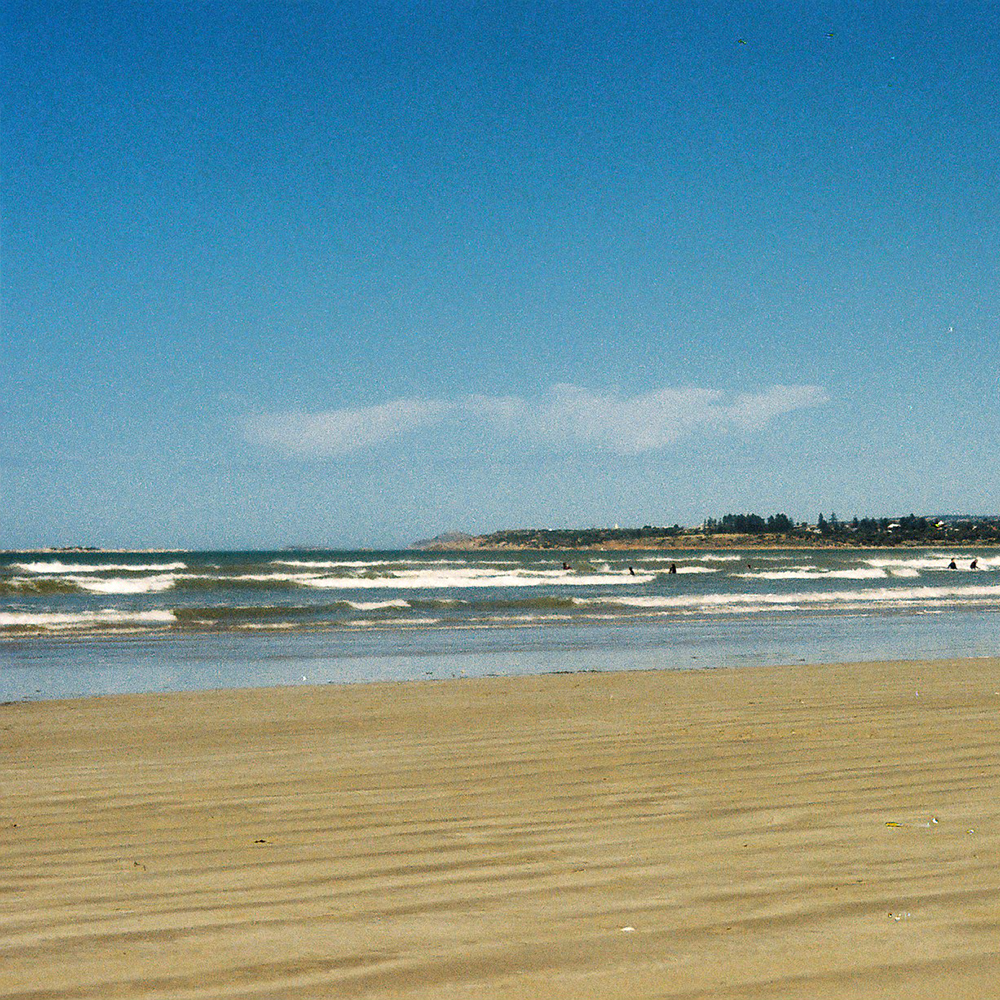
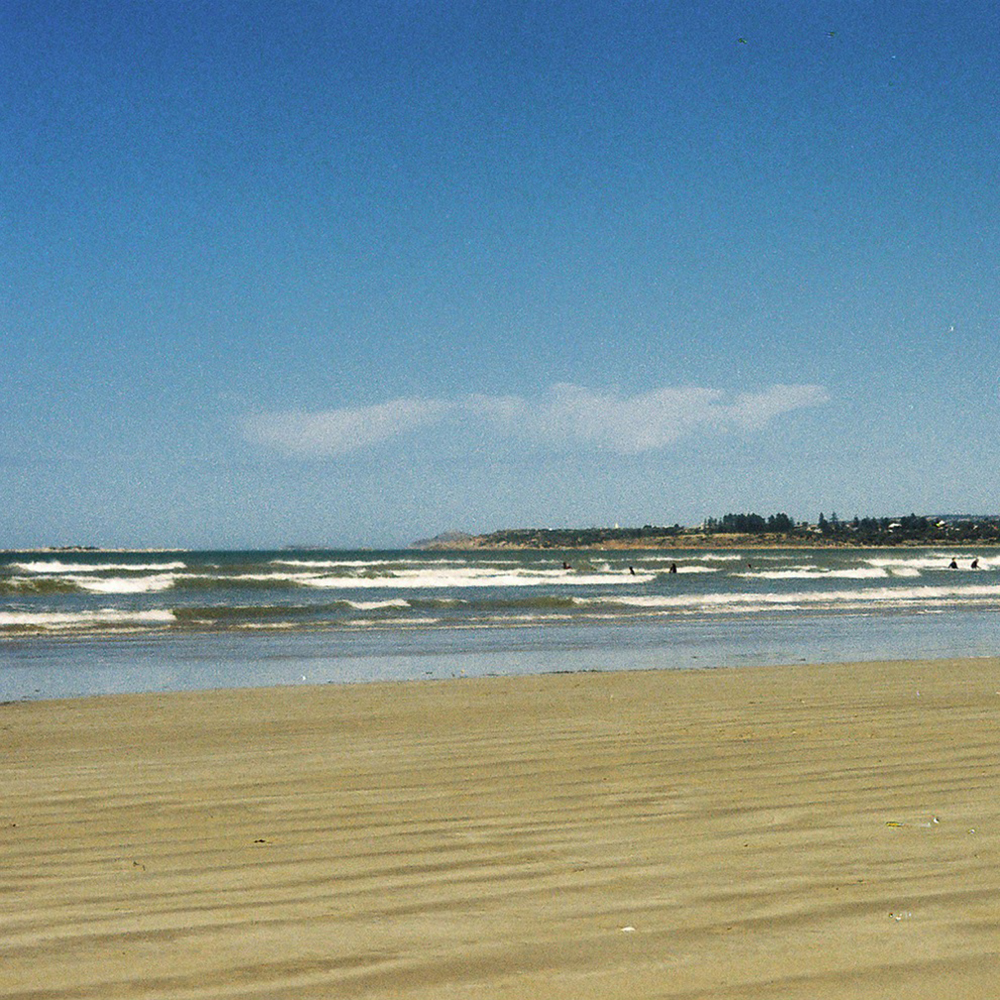
Repaired potential fualty photo file and corrected HTML

diff --git a/README.md b/README.md
@@ -31,7 +31,7 @@ Added all data required including titles, paragraphs and images to HTML file, al
 
 >## [**Link to live GitPage**]()
 
-![Personal Portfolio]()
+![Personal Portfolio](./assets/photos/Portfolio%20Screenshot.png)
 
 ---
 Lucien Haines UADL 2022
